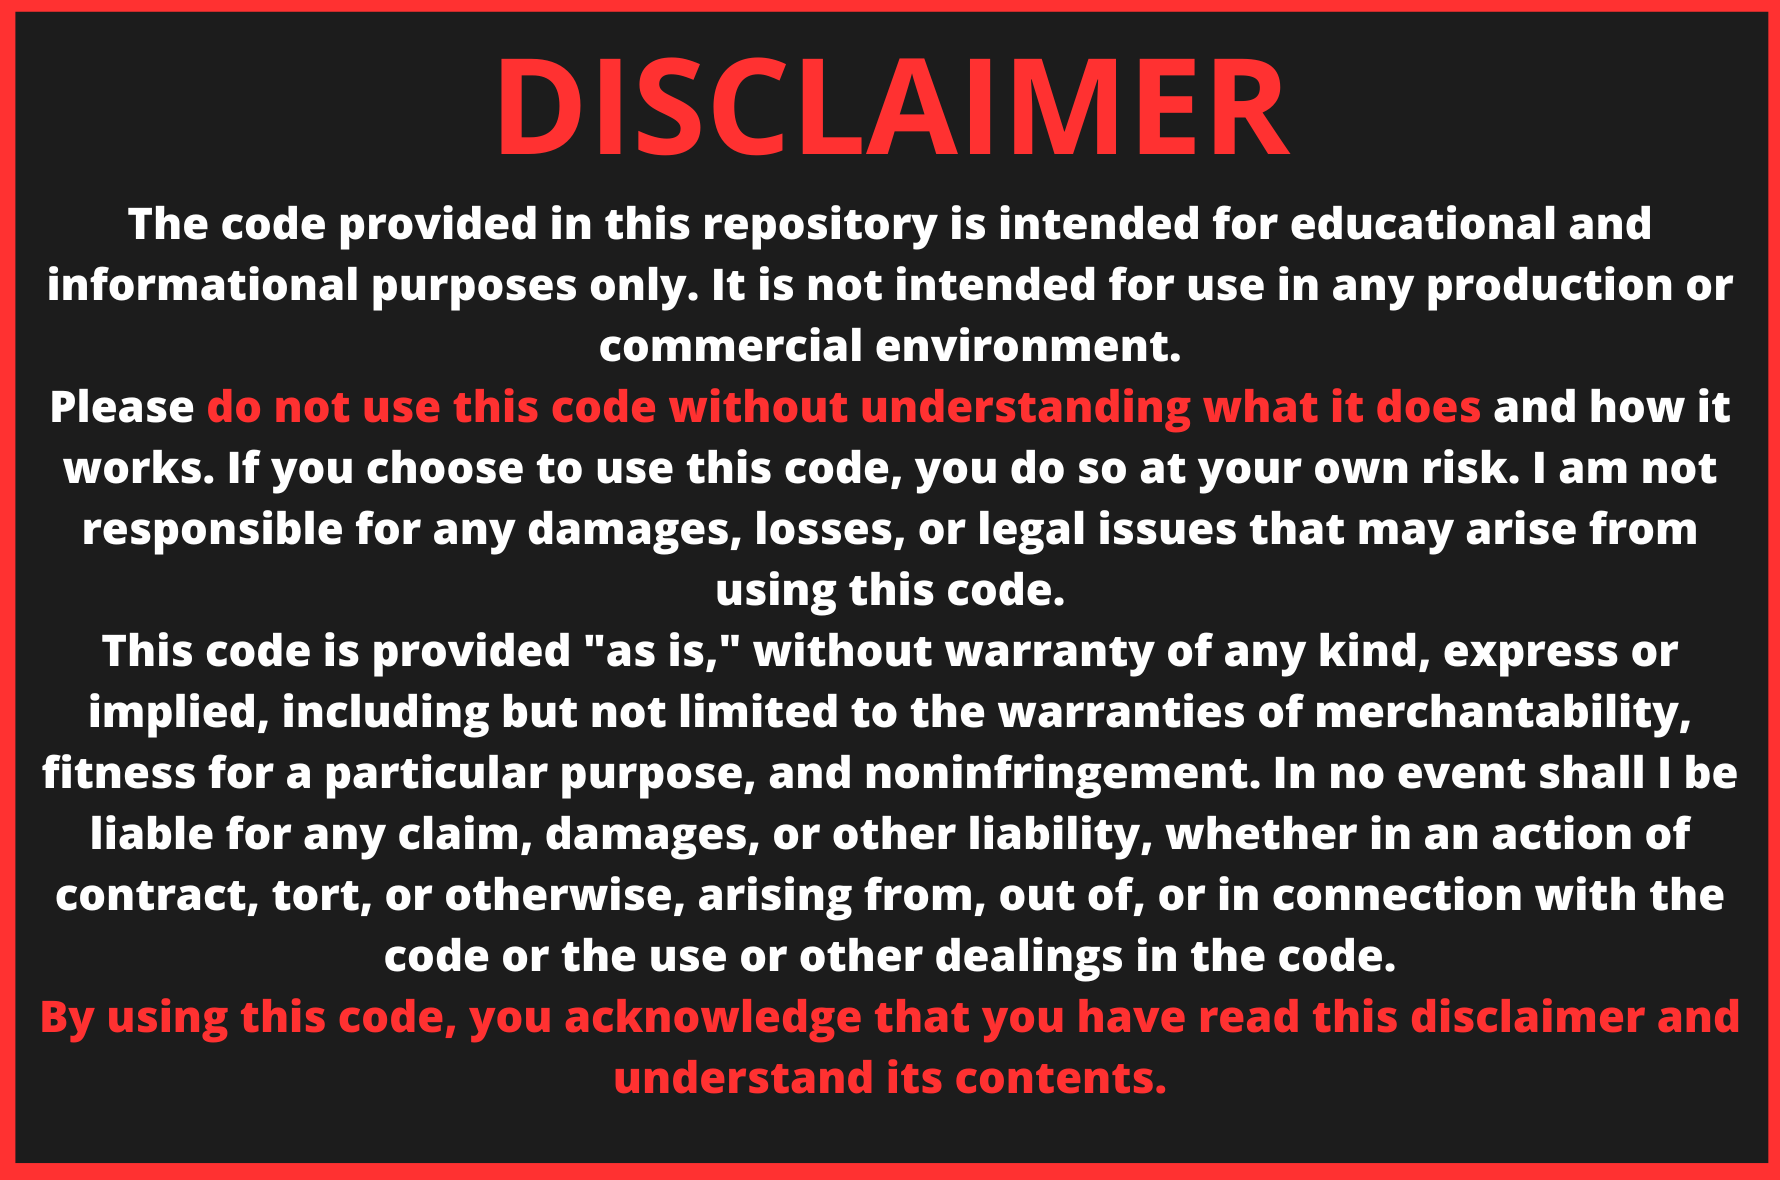
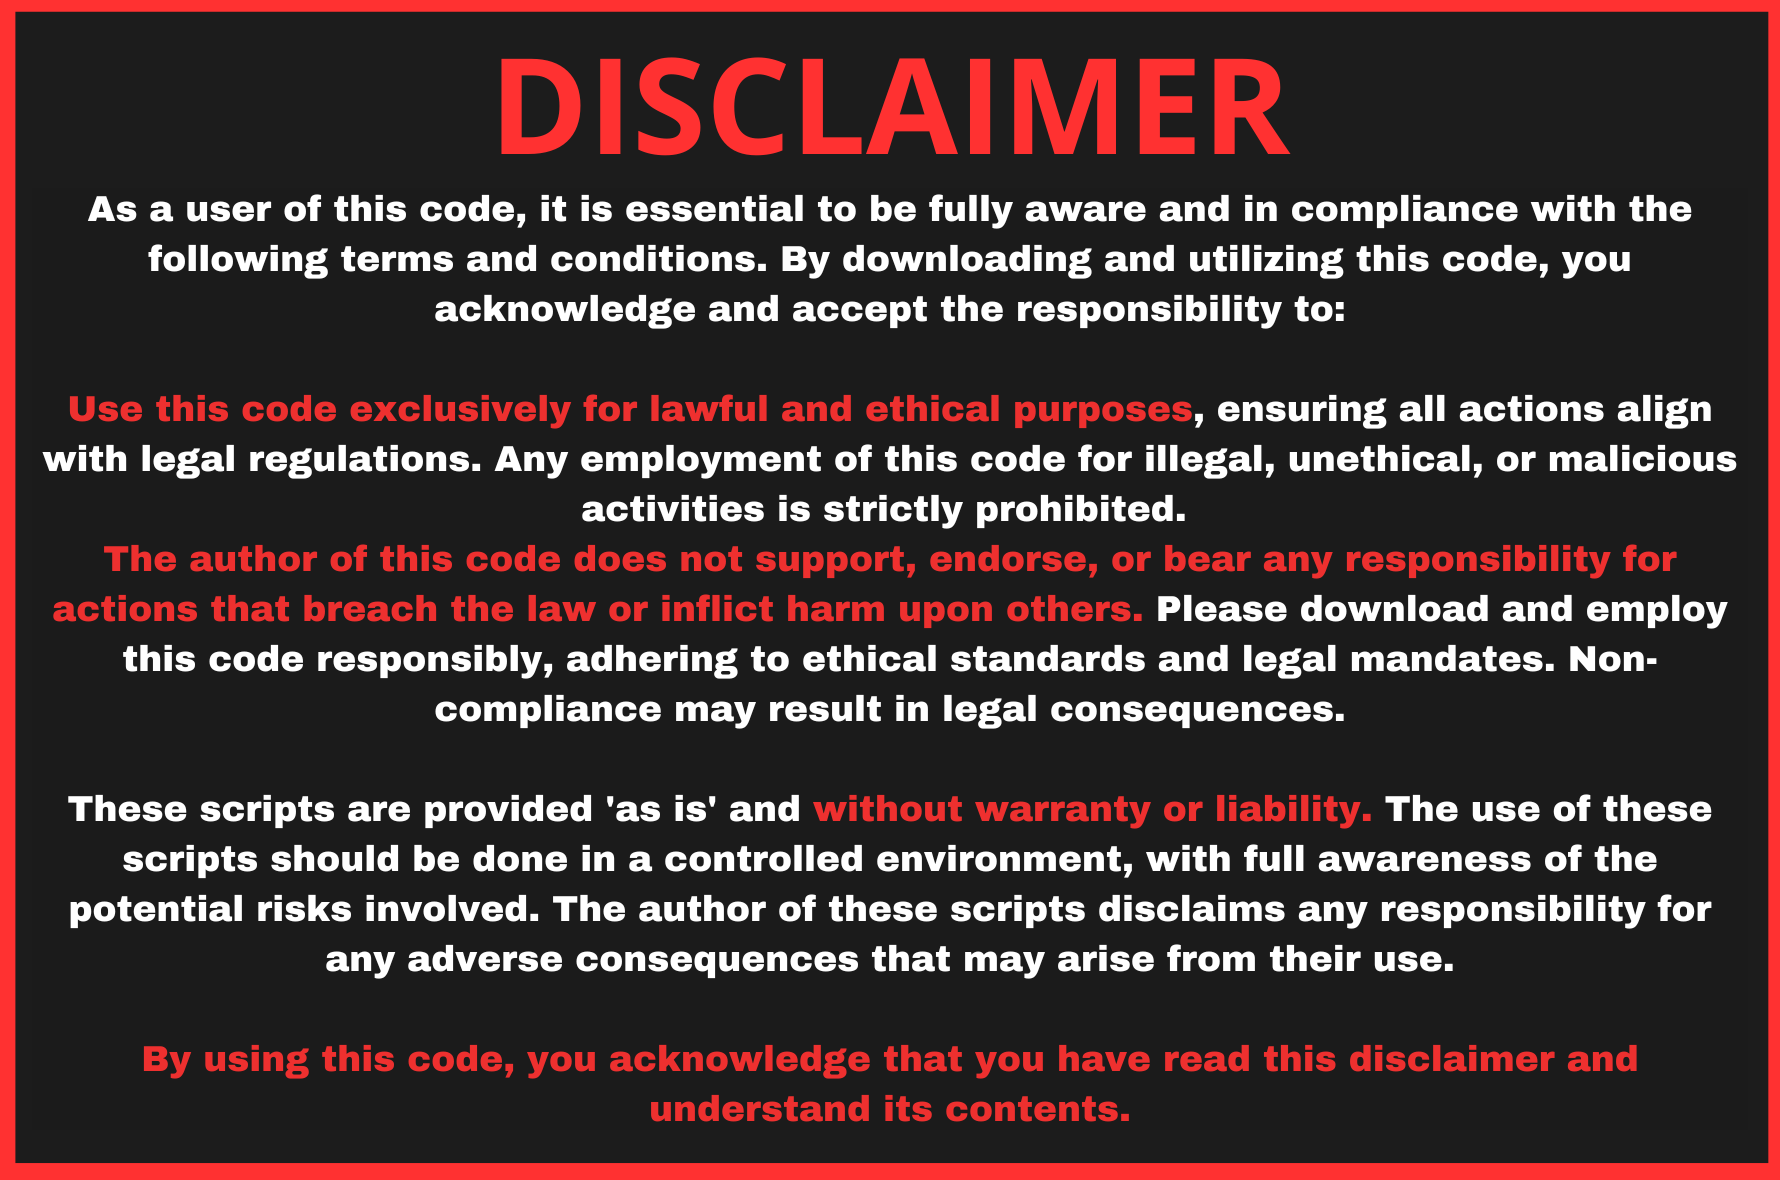
Update

Changed region(s): [[0.0, 0.3356, 0.9888, 0.9763], [0.0309, 0.1525, 0.9888, 0.3051]]

diff --git a/README.md b/README.md
@@ -13,10 +13,13 @@
 
 > [!IMPORTANT]
 > As a user of this code, it is essential to be fully aware and in compliance with the following terms and conditions. By downloading and utilizing this code, you acknowledge and accept the responsibility to:
-> 
-> Use this code exclusively for lawful and ethical purposes, ensuring all actions align with legal regulations. Any employment of this code for illegal, unethical, or malicious activities is strictly prohibited. The author of this code does not support, endorse, or bear any responsibility for actions that breach the law or inflict harm upon others. Please download and employ this code responsibly, adhering to ethical standards and legal mandates. Non-compliance may result in legal consequences.
 >
->These scripts are provided 'as is' and without warranty or liability. The use of these scripts should be done in a controlled environment, with full awareness of the potential risks involved. The author of these scripts disclaims any responsibility for any adverse consequences that may arise from their use.
+> Use this code exclusively for lawful and ethical purposes, ensuring all actions align with legal regulations. Any employment of this code for illegal, unethical, or malicious activities is strictly prohibited. 
+> The author of this code does not support, endorse, or bear any responsibility for actions that breach the law or inflict harm upon others. Please download and employ this code responsibly, adhering to ethical standards and legal mandates. Non-compliance may result in legal consequences.
+>
+> These scripts are provided 'as is' and without warranty or liability. The use of these scripts should be done in a controlled environment, with full awareness of the potential risks involved. The author of these scripts disclaims any responsibility for any adverse consequences that may arise from their use.
+>
+> By using this code, you acknowledge that you have read this disclaimer and understand its contents.ims any responsibility for any adverse consequences that may arise from their use.
 
 
 <div align=center>
